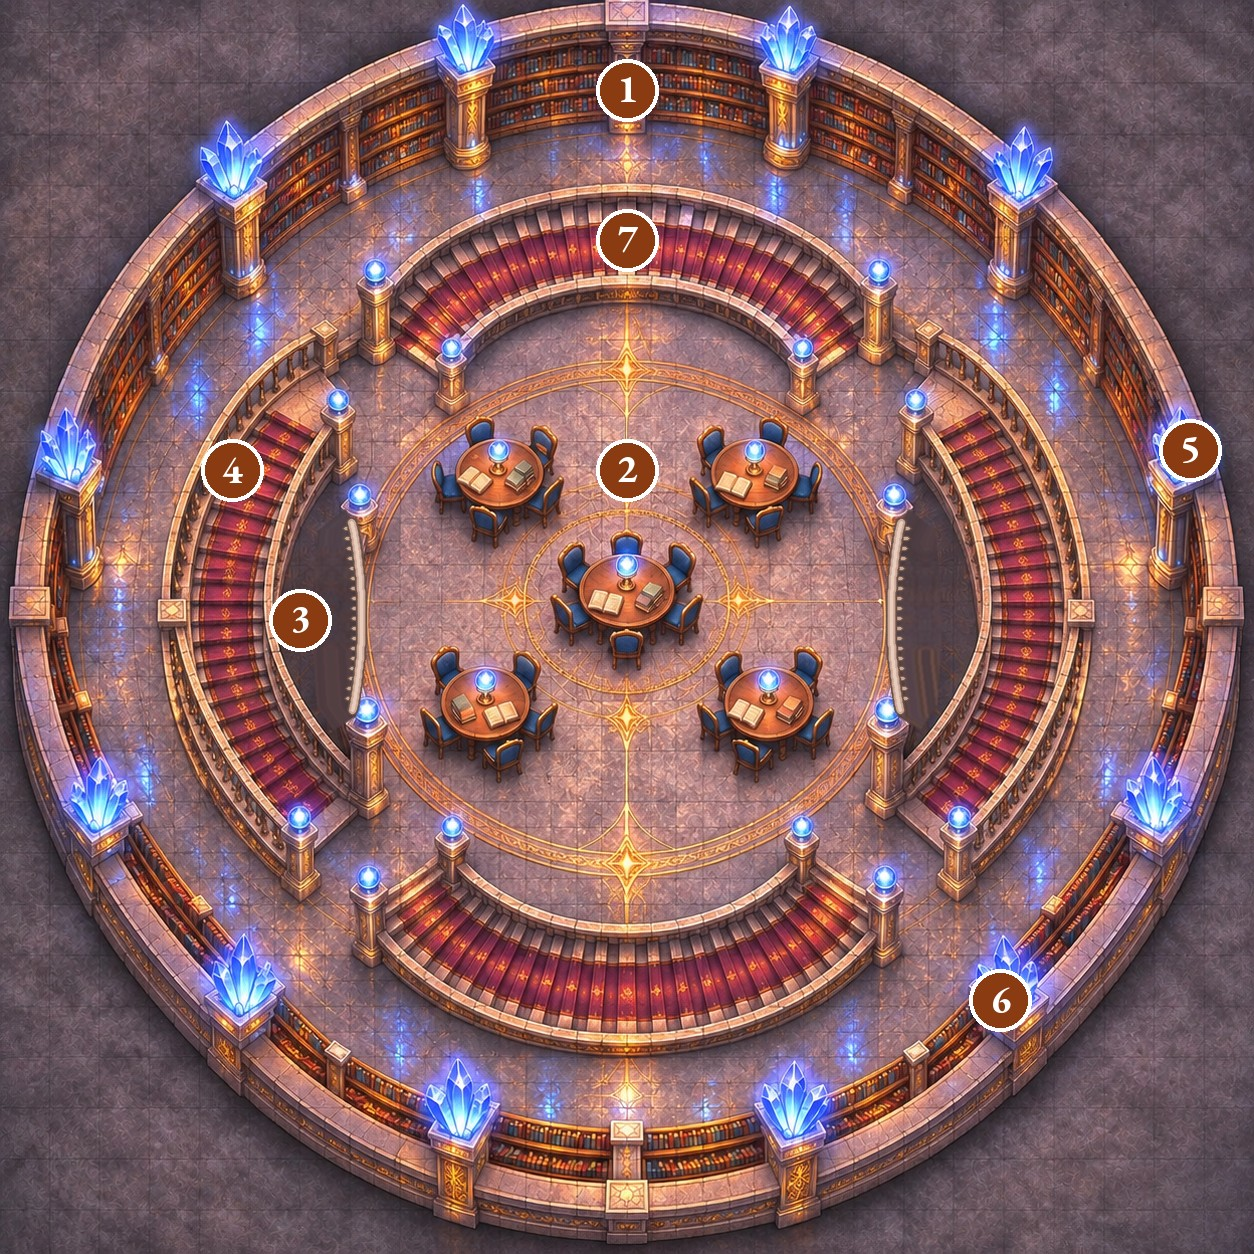
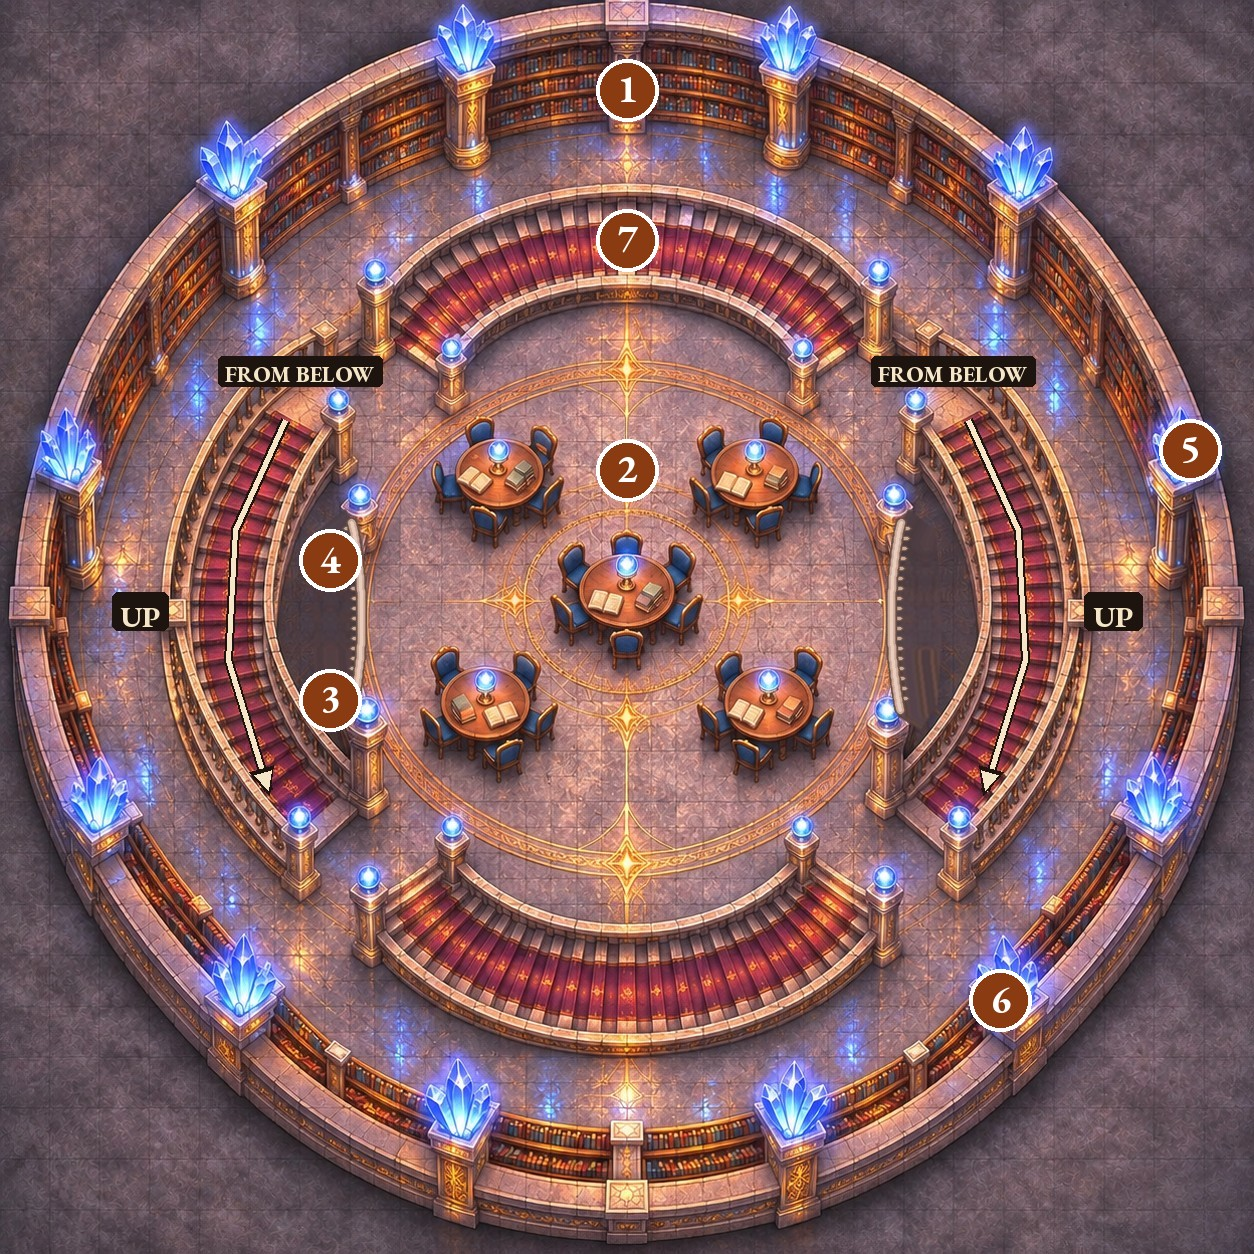
Great Archives: stair direction marked on both maps (switchback)
Claude-Session: https://claude.ai/code/session_01QqMC3jV4Jm9bLjV1D99fiy

diff --git a/oneshots/great-archives/homebrewery-source.md b/oneshots/great-archives/homebrewery-source.md
@@ -865,11 +865,11 @@
 \page
 <div class="running" style="--accent:#8a3b12"><span>The Destruction of the Great Archives</span><span>PLAYER MAP</span></div><div class="pf-body gamap" style="--accent:#8a3b12"><p class="gm-eye">PLAYER MAP · GA-M01</p><h2>Level 1 · The Entrance</h2><img class="gm-plate" alt="Level 1 · The Entrance" src="https://oberonandomegaid.github.io/aelderia/oneshots/great-archives/img/map-l1-player.jpg"><p class="gm-cap">1 square = 5 ft · the doors are at the bottom</p><p class="gm-next">GM map and key on the next page</p></div><div class="folio-footer"><span>The Destruction of the Great Archives</span><span>33</span></div>
 \page
-<div class="running" style="--accent:#8a3b12"><span>The Destruction of the Great Archives</span><span>GM · MAP KEY</span></div><div class="pf-body gamap" style="--accent:#8a3b12"><p class="gm-eye">GM MAP &amp; KEY · GA-M01</p><h2>Level 1 · The Entrance</h2><img class="gm-plate small" alt="Level 1 · The Entrance: GM reference" src="https://oberonandomegaid.github.io/aelderia/oneshots/great-archives/img/map-l1-gm.jpg"><div class="gkeys"><div class="gk"><b>1 · The doors</b> Tall, open, and the main way out. Two golems stand here.</div><div class="gk"><b>2 · The recess</b> Outside, on the wall beside the doors, behind a locked cover. A librarian comes out to issue each bracelet.</div><div class="gk"><b>3 · The golem alcoves</b> The door guards. They punch anything without a bracelet that comes within 30 ft.</div><div class="gk"><b>4 · The monolith</b> Sealing on one side, unsealing on the other. One book a round.</div><div class="gk"><b>5 · The professor’s desk</b> Where the egg hatches, and where the first fire starts.</div><div class="gk"><b>6 · Reading desks</b> Half Cover. Easy to tip over as a barricade.</div><div class="gk"><b>7 · The stairs</b> Curving up to Level 2 on either side.</div><div class="gk"><b>8 · Crystal clusters</b> On the door pillars. They burst if fire reaches them.</div></div><p class="gm-note2">The first fire starts at the shelf nearest the professor’s desk.</p></div><div class="folio-footer"><span>The Destruction of the Great Archives</span><span>34</span></div>
+<div class="running" style="--accent:#8a3b12"><span>The Destruction of the Great Archives</span><span>GM · MAP KEY</span></div><div class="pf-body gamap" style="--accent:#8a3b12"><p class="gm-eye">GM MAP &amp; KEY · GA-M01</p><h2>Level 1 · The Entrance</h2><img class="gm-plate small" alt="Level 1 · The Entrance: GM reference" src="https://oberonandomegaid.github.io/aelderia/oneshots/great-archives/img/map-l1-gm.jpg"><div class="gkeys"><div class="gk"><b>1 · The doors</b> Tall, open, and the main way out. Two golems stand here.</div><div class="gk"><b>2 · The recess</b> Outside, on the wall beside the doors, behind a locked cover. A librarian comes out to issue each bracelet.</div><div class="gk"><b>3 · The golem alcoves</b> The door guards. They punch anything without a bracelet that comes within 30 ft.</div><div class="gk"><b>4 · The monolith</b> Sealing on one side, unsealing on the other. One book a round.</div><div class="gk"><b>5 · The professor’s desk</b> Where the egg hatches, and where the first fire starts.</div><div class="gk"><b>6 · Reading desks</b> Half Cover. Easy to tip over as a barricade.</div><div class="gk"><b>7 · The stairs</b> Left and right. They climb from the front, by the doors, to the back, arriving at the back of Level 2.</div><div class="gk"><b>8 · Crystal clusters</b> On the door pillars. They burst if fire reaches them.</div></div><p class="gm-note2">The first fire starts at the shelf nearest the professor’s desk.</p></div><div class="folio-footer"><span>The Destruction of the Great Archives</span><span>34</span></div>
 \page
 <div class="running" style="--accent:#8a3b12"><span>The Destruction of the Great Archives</span><span>PLAYER MAP</span></div><div class="pf-body gamap" style="--accent:#8a3b12"><p class="gm-eye">PLAYER MAP · GA-M02</p><h2>An Upper Gallery</h2><img class="gm-plate" alt="An Upper Gallery" src="https://oberonandomegaid.github.io/aelderia/oneshots/great-archives/img/map-gallery-player.jpg"><p class="gm-cap">1 square = 5 ft · use for any of Levels 2–6</p><p class="gm-next">GM map and key on the next page</p></div><div class="folio-footer"><span>The Destruction of the Great Archives</span><span>35</span></div>
 \page
-<div class="running" style="--accent:#8a3b12"><span>The Destruction of the Great Archives</span><span>GM · MAP KEY</span></div><div class="pf-body gamap" style="--accent:#8a3b12"><p class="gm-eye">GM MAP &amp; KEY · GA-M02</p><h2>An Upper Gallery</h2><img class="gm-plate small" alt="An Upper Gallery: GM reference" src="https://oberonandomegaid.github.io/aelderia/oneshots/great-archives/img/map-gallery-gm.jpg"><div class="gkeys"><div class="gk"><b>1 · Outer shelves</b> All the way round. The first thing to burn.</div><div class="gk"><b>2 · Reading platform</b> Raised, with tables and chairs. Half Cover.</div><div class="gk"><b>3 · The gaps</b> Open drops to the level below, railed on the platform side. The bird flies up through them; golems don’t jump them. Falling one level is 10 ft (1d6 damage).</div><div class="gk"><b>4 · The stairs</b> Left and right, curving up from the outer walkway to the gallery above, directly over the Level 1 stairs. Golems use these.</div><div class="gk"><b>5 · Crystal clusters</b> On the pillars. Watch them.</div><div class="gk"><b>6 · Golem patrol</b> One golem walks each gallery.</div><div class="gk"><b>7 · Platform steps</b> Front and back: broad steps up from the walkway onto the reading platform.</div></div><p class="gm-note2">Tall windows sit in the outer wall between the shelf runs: a long drop to the square, and a way out for a bird.</p></div><div class="folio-footer"><span>The Destruction of the Great Archives</span><span>36</span></div>
+<div class="running" style="--accent:#8a3b12"><span>The Destruction of the Great Archives</span><span>GM · MAP KEY</span></div><div class="pf-body gamap" style="--accent:#8a3b12"><p class="gm-eye">GM MAP &amp; KEY · GA-M02</p><h2>An Upper Gallery</h2><img class="gm-plate small" alt="An Upper Gallery: GM reference" src="https://oberonandomegaid.github.io/aelderia/oneshots/great-archives/img/map-gallery-gm.jpg"><div class="gkeys"><div class="gk"><b>1 · Outer shelves</b> All the way round. The first thing to burn.</div><div class="gk"><b>2 · Reading platform</b> Raised, with tables and chairs. Half Cover.</div><div class="gk"><b>3 · The gaps</b> Open drops to the level below, railed on the platform side. The bird flies up through them; golems don’t jump them. Falling one level is 10 ft (1d6 damage).</div><div class="gk"><b>4 · The stairs</b> Left and right. You arrive from below at the back (FROM BELOW), walk onto the walkway, and the next flight climbs from there to the front, arriving at the front of the level above. Each level switches back the other way. Golems use these.</div><div class="gk"><b>5 · Crystal clusters</b> On the pillars. Watch them.</div><div class="gk"><b>6 · Golem patrol</b> One golem walks each gallery.</div><div class="gk"><b>7 · Platform steps</b> Front and back: broad steps up from the walkway onto the reading platform.</div></div><p class="gm-note2">Tall windows sit in the outer wall between the shelf runs: a long drop to the square, and a way out for a bird.</p></div><div class="folio-footer"><span>The Destruction of the Great Archives</span><span>36</span></div>
 \page
 <div class="running" style="--accent:#8a3b12"><span>The Destruction of the Great Archives</span><span>GM · CHARACTERS</span></div><div class="pf-body columns" style="--accent:#8a3b12"><div class="layout-cols"><div class="flow-col"><h2>Appendix A — Characters</h2><div class="cast"><img alt="" src="https://oberonandomegaid.github.io/aelderia/oneshots/great-archives/img/professor.jpg" style="object-position:50% 12%"><div><p><strong>Professor Emeric Quillweather</strong> <em>(human, sixties).</em> Brilliant, respected, cultured and a tireless chatterbox. Eleven years on Var’s research. Loves the bird the moment it hatches, marvels at its rebirth, then fights for it. <em>Voice: a delighted lecturer on his third cup of tea.</em></p></div></div><div class="cast"><img alt="" src="https://oberonandomegaid.github.io/aelderia/oneshots/great-archives/img/faversham.jpg" style="object-position:50% 12%"><div><p><strong>Head Librarian Ottoline Faversham.</strong> Brisk, proud, never wrong. Holds authority over the restricted works. Saves what she can, then writes the official story. <em>Voice: crisp, cold, final.</em></p></div></div><div class="cast"><img alt="" src="https://oberonandomegaid.github.io/aelderia/oneshots/great-archives/img/golem.jpg" style="object-position:50% 20%"><div><p><strong>The golems.</strong> Seven stone guardians. Polite, precise, literal. Not broken, not stupid. They do exactly what they were built to do. <em>Voice: none. A polite clunk.</em></p></div></div></div><div class="flow-col"><div class="cast"><img alt="" src="https://oberonandomegaid.github.io/aelderia/oneshots/great-archives/img/brannoch.jpg" style="object-position:50% 14%"><div><p><strong>Brannoch Tey</strong> <em>(copyist and quiet follower of Isthara, early twenties).</em> Brave for about four seconds at a time. Escaped once, went back in without a bracelet for one holy book. Honest, frightened, grateful. <em>Voice: fast and breathless.</em></p></div></div><p><strong>The hatchling.</strong> Pipkin, Fizzwick, Solin or Tuppence. Fluffy, golden to crimson, enormous eyes. A phoenix, though nobody knew. Bonded to the professor.</p>
 <p><strong>Old Wenlow</strong> <em>(librarian).</em> Kind, forgetful, slow on the stairs. His bracelet is in his top pocket.</p>
